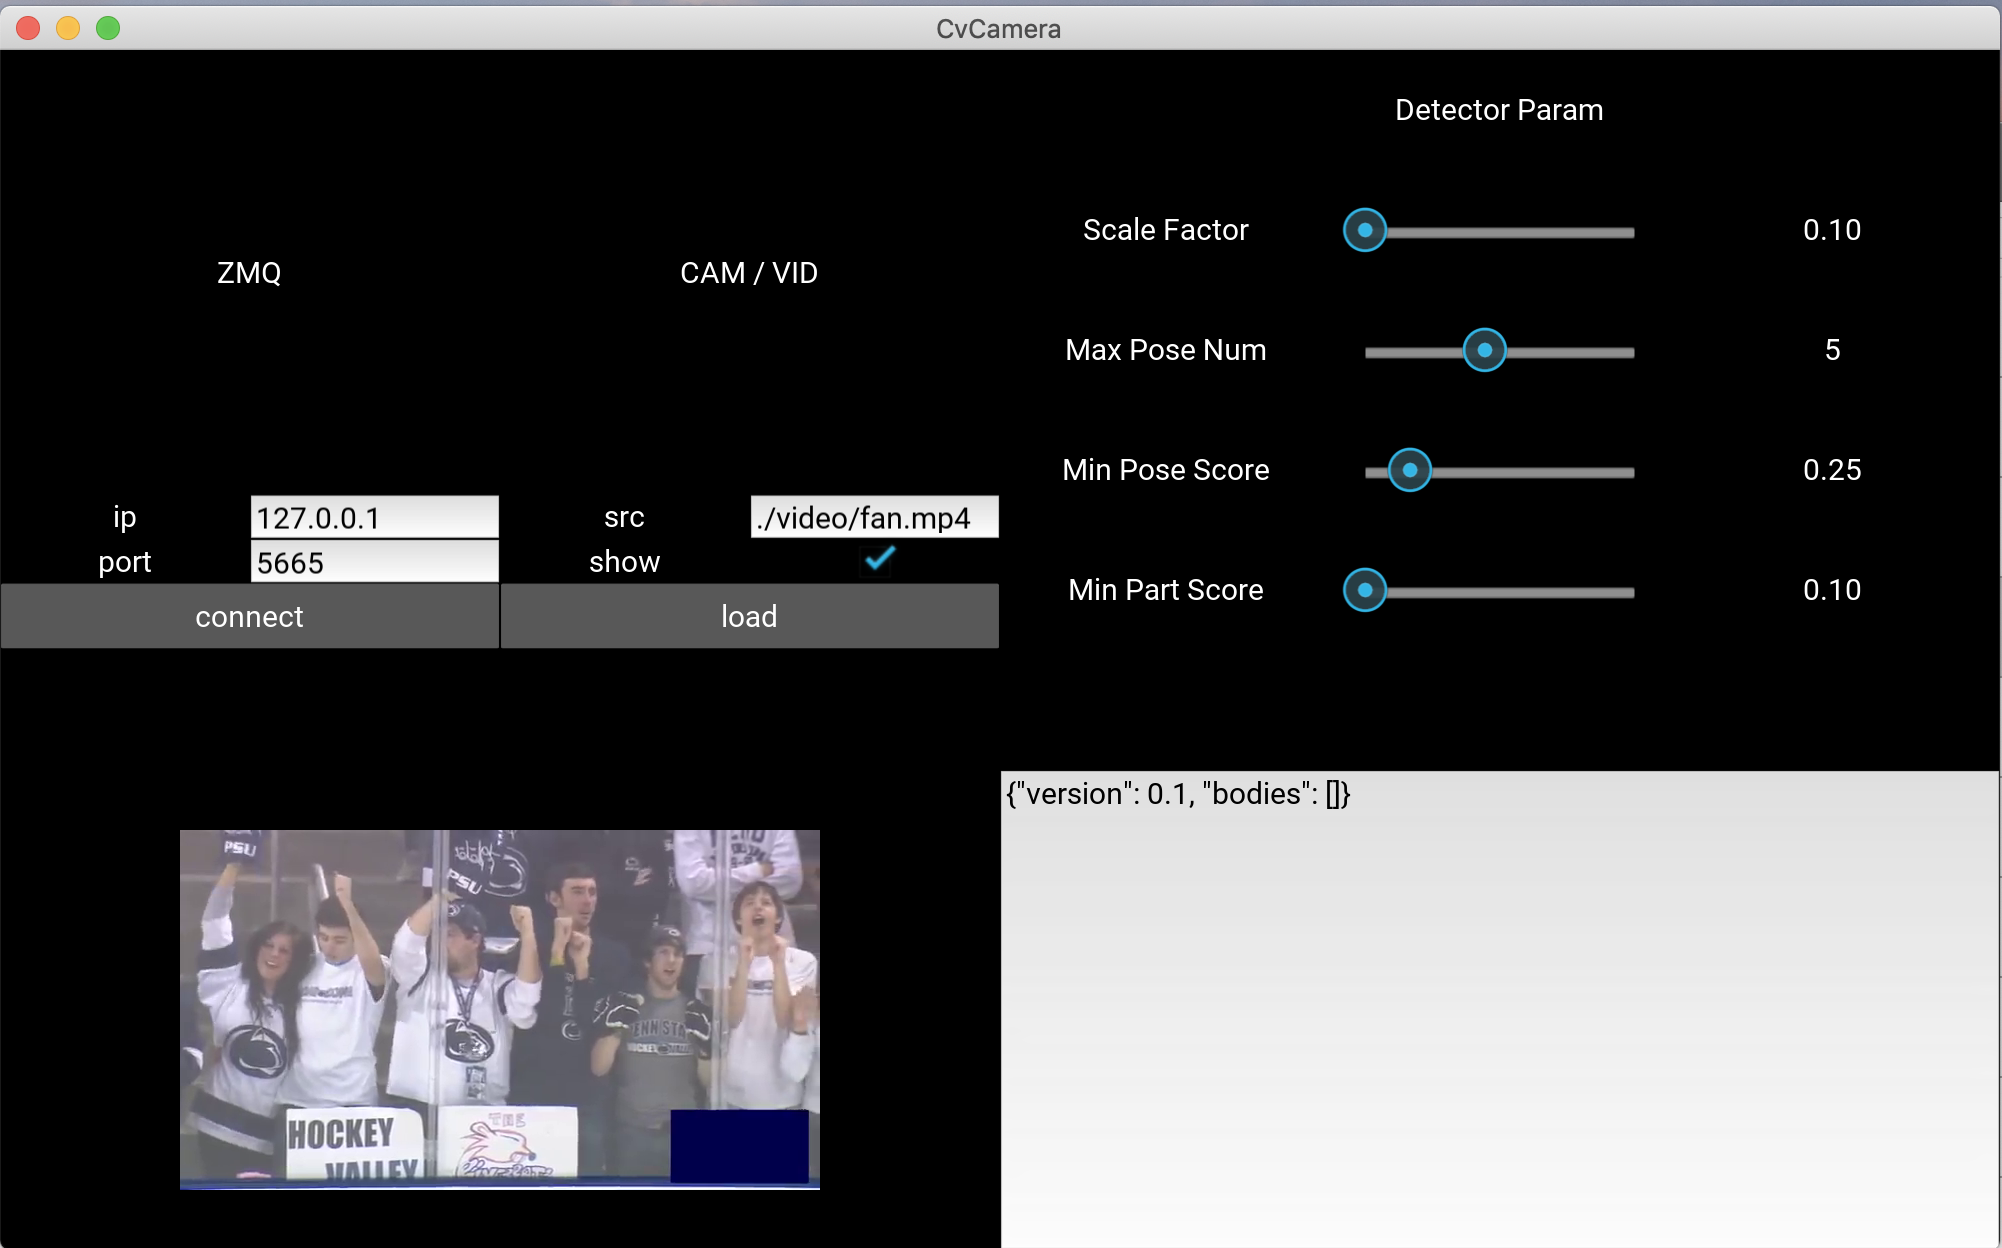
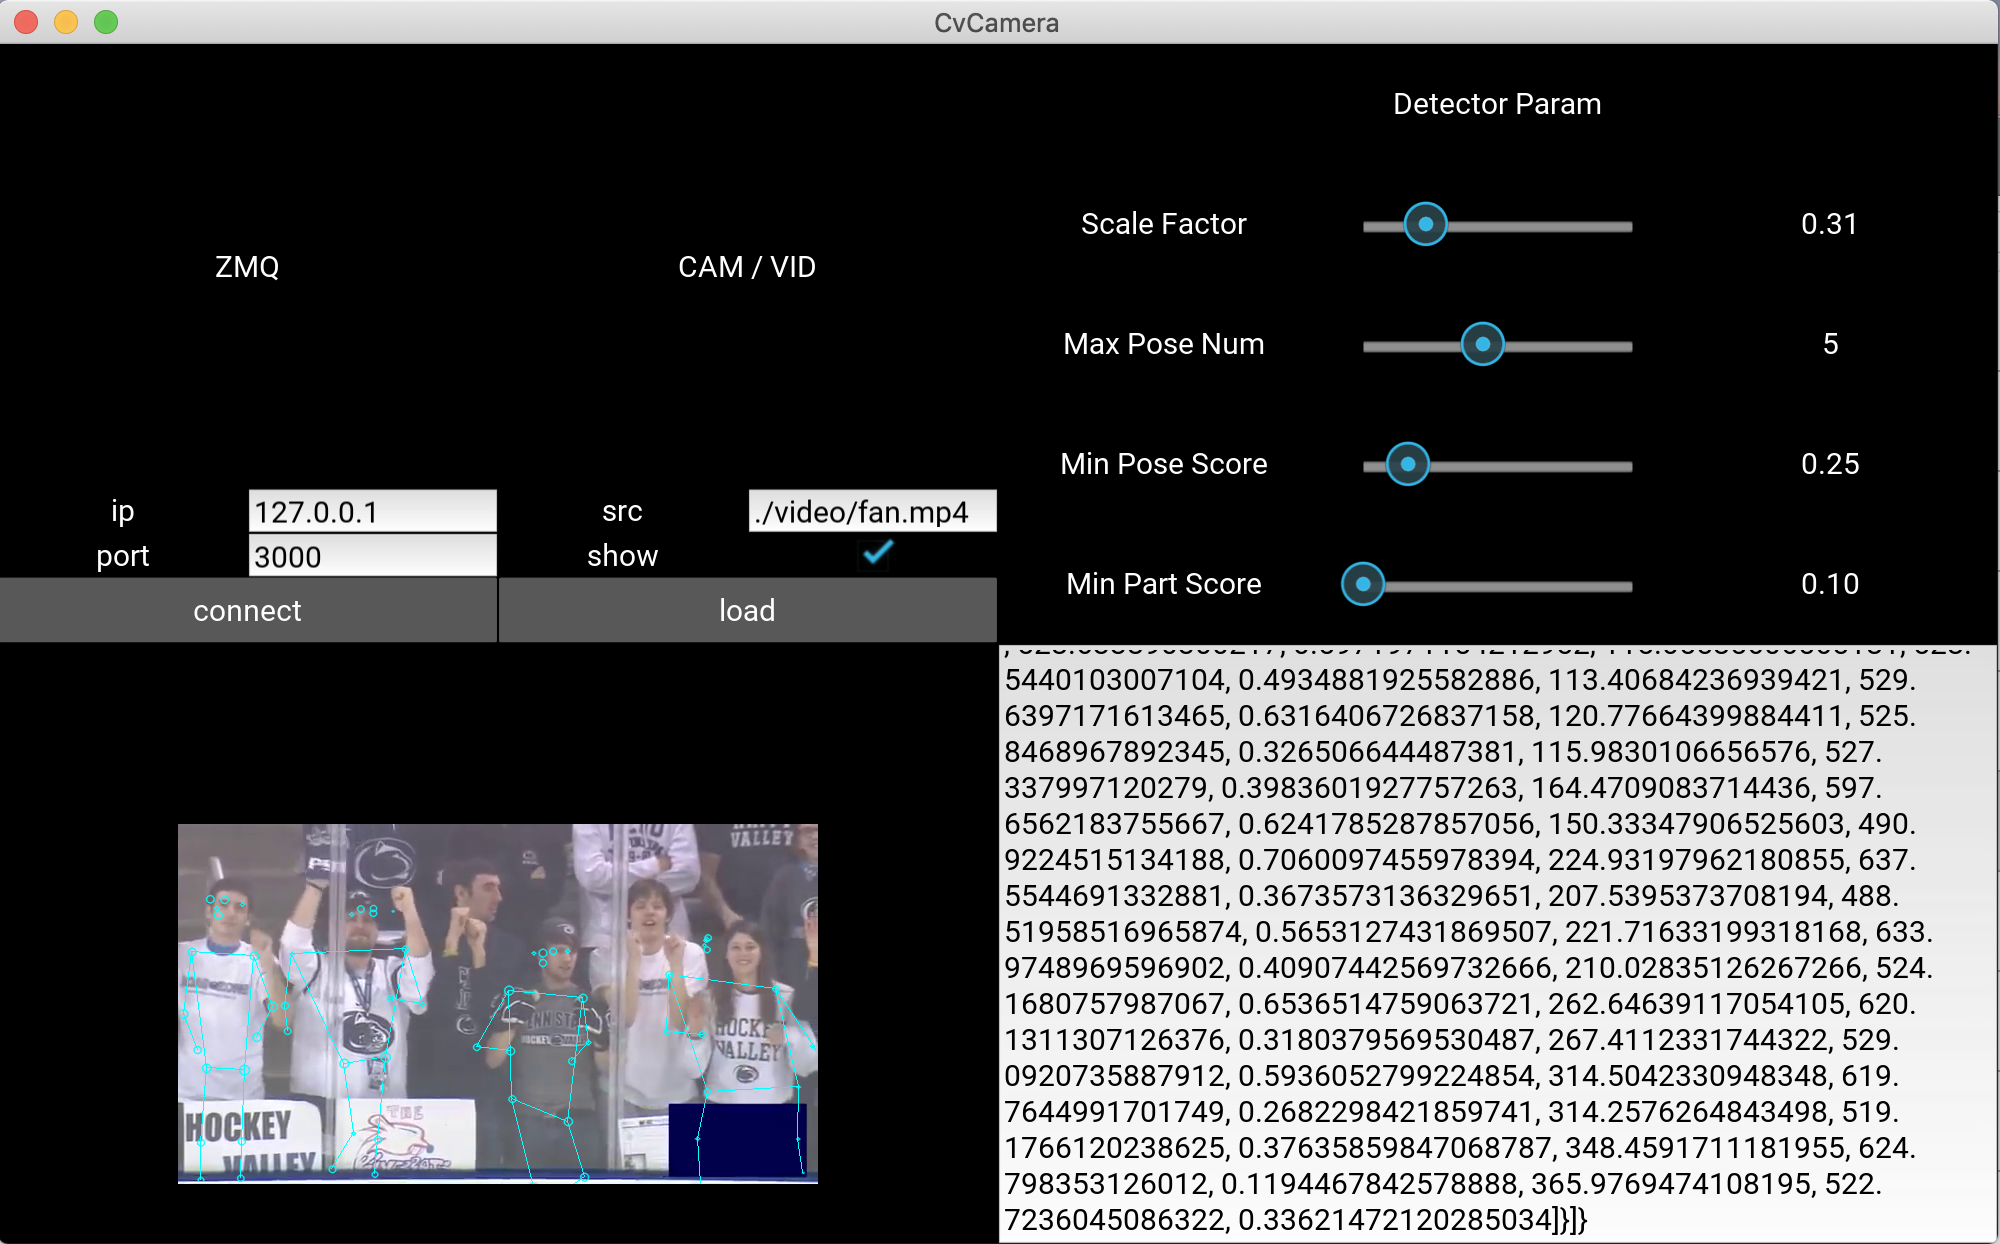
ok version

diff --git a/data_send.py b/data_send.py
@@ -15,8 +15,9 @@ class ZMQ_SENDER():
             self.close()
         self.context = zmq.Context()
         socket = self.context.socket(zmq.PUB)
-        socket.connect("tcp://" + ip + ":" + str(port))
-        print("zmq connected to", ip, port)
+        addr = "tcp://" + ip + ":" + str(port)
+        socket.bind(addr)
+        print("zmq connected to", addr)
 
     def send(self, d):
         global socket

diff --git a/detection.py b/detection.py
@@ -1,9 +1,5 @@
 import tensorflow as tf
-import time
-import cv2
 import posenet
-import numpy as np
-import gc
 
 import json
 from data_send import ZMQ_SENDER

diff --git a/README.md b/README.md
@@ -29,10 +29,13 @@
 
 2. 上中
     - Camera / Video settings
-    - カメラの場合 : srcの番号を入れる. ビデオの場合 : パスを入れる
+    - src
+        - カメラの場合 : srcの番号を入れる. 
+        - ビデオの場合 : パスを入れる
+        - TextInputにはデフォルトで、動画ファイルのパスが入っている
     - loadボタンで自動で切り替わる
         - デフォルトで、カメラ（ソース：0）が起動する
-        - TextInputにはデフォルトで、動画ファイルのパスが入っている
+  
     - Showのトグルスイッチ
         - 切り替えによって、カメラ表示/非表示切り替え
 
